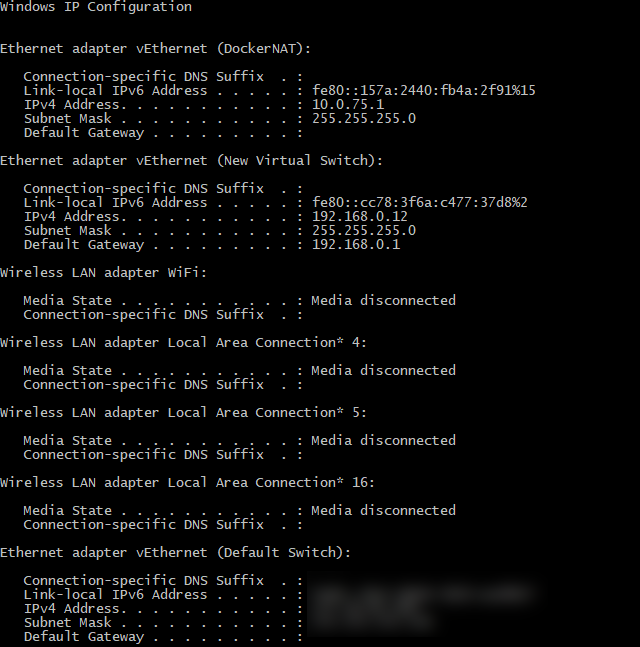
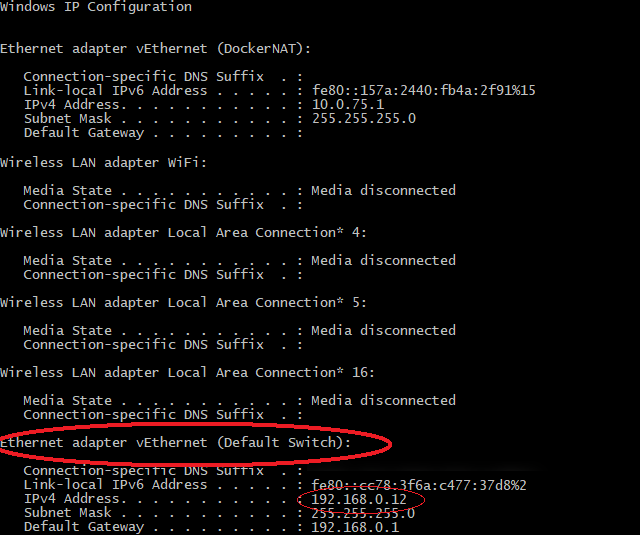
#209 Fix Xdebug documentation for Docker for Windows

Changed region(s): [[0.0, 0.0598, 0.8438, 1.0], [0.4375, 0.2991, 0.8438, 0.3888], [0.0, 0.0, 0.3125, 0.0299]]

diff --git a/docs/intermediate/configure-php-xdebug/windows/vscode.rst b/docs/intermediate/configure-php-xdebug/windows/vscode.rst
@@ -36,41 +36,14 @@ Gather Host IP address
 On Windows you will have to manually retrieve the IP address to which Xdebug should connect to
 via ``xdebug.remote_host``.
 
-When gathering the Windows host IP address you will need to distinguish between two cases depending
-on your configuration:
-
-1. DockerNat IP address (no custom configuration applied)
-2. Virtual Switch IP address (you have created a Virtual Switch to allow Internet access to your container)
-
-Only one of the options may be valid for your setup.
-
-DockerNAT IP address
-^^^^^^^^^^^^^^^^^^^^
-
-1. Open command line
-2. Enter ``ipconfig``
-3. Look for the IP4 address in ``DockerNAT`` (e.g.: ``192.168.0.12``)
-
-   .. important::
-      ``192.168.0.12`` is meant as an example and will eventually differ on your system.
-      Ensure you substitute it with the correct IP address.
-
-   .. seealso:: :ref:`howto_open_terminal_on_win`
-
-Virtual Switch IP address
-^^^^^^^^^^^^^^^^^^^^^^^^^
-
-When you have created a custom Virtual Switch for you Docker setup, you will have to gather the
-Virtual Switch IP address instead of the DockerNat IP address.
-
-Let's assume you have created the switch by the name **New Virtual Switch** as follows:
+When you have done no custom configuration in your Virtual Switch manager, Docker for Windows will
+use the ``Default Switch`` automatically.
 
    .. include:: /_includes/figures/xdebug/windows/virtual-switch-manager.rst
 
-
 1. Open command line
 2. Enter ``ipconfig``
-3. Look for the IP4 address in ``New Virtual Switch`` (e.g.: ``192.168.0.12``)
+3. Look for the IP4 address in ``Default Switch`` (e.g.: ``192.168.0.12``)
 
    .. include:: /_includes/figures/xdebug/windows/ipconfig.rst
 
@@ -137,7 +110,7 @@ You will need to configure the path mapping in ``launch.json`` (VSCode configura
                   "request": "launch",
                   "port": 9000,
                   "pathMappings": {
-                      "/shared/httpd/mytest/htdocs": "${workspaceFolder}/htdocs"
+                      "/shared/httpd/mytest/htdocs": "${workspaceRoot}/htdocs"
                   }
               }, {
                   "name": "Launch currently open script",

diff --git a/docs/intermediate/configure-php-xdebug/windows/phpstorm.rst b/docs/intermediate/configure-php-xdebug/windows/phpstorm.rst
@@ -36,41 +36,14 @@ Gather Host IP address
 On Windows you will have to manually retrieve the IP address to which Xdebug should connect to
 via ``xdebug.remote_host``.
 
-When gathering the Windows host IP address you will need to distinguish between two cases depending
-on your configuration:
-
-1. DockerNat IP address (no custom configuration applied)
-2. Virtual Switch IP address (you have created a Virtual Switch to allow Internet access to your container)
-
-Only one of the options may be valid for your setup.
-
-DockerNAT IP address
-^^^^^^^^^^^^^^^^^^^^
-
-1. Open command line
-2. Enter ``ipconfig``
-3. Look for the IP4 address in ``DockerNAT`` (e.g.: ``192.168.0.12``)
-
-   .. important::
-      ``192.168.0.12`` is meant as an example and will eventually differ on your system.
-      Ensure you substitute it with the correct IP address.
-
-   .. seealso:: :ref:`howto_open_terminal_on_win`
-
-Virtual Switch IP address
-^^^^^^^^^^^^^^^^^^^^^^^^^
-
-When you have created a custom Virtual Switch for you Docker setup, you will have to gather the
-Virtual Switch IP address instead of the DockerNat IP address.
-
-Let's assume you have created the switch by the name **New Virtual Switch** as follows:
+When you have done no custom configuration in your Virtual Switch manager, Docker for Windows will
+use the ``Default Switch`` automatically.
 
    .. include:: /_includes/figures/xdebug/windows/virtual-switch-manager.rst
 
-
 1. Open command line
 2. Enter ``ipconfig``
-3. Look for the IP4 address in ``New Virtual Switch`` (e.g.: ``192.168.0.12``)
+3. Look for the IP4 address in ``Default Switch`` (e.g.: ``192.168.0.12``)
 
    .. include:: /_includes/figures/xdebug/windows/ipconfig.rst
 

diff --git a/docs/intermediate/configure-php-xdebug/windows/sublime.rst b/docs/intermediate/configure-php-xdebug/windows/sublime.rst
@@ -36,41 +36,14 @@ Gather Host IP address
 On Windows you will have to manually retrieve the IP address to which Xdebug should connect to
 via ``xdebug.remote_host``.
 
-When gathering the Windows host IP address you will need to distinguish between two cases depending
-on your configuration:
-
-1. DockerNat IP address (no custom configuration applied)
-2. Virtual Switch IP address (you have created a Virtual Switch to allow Internet access to your container)
-
-Only one of the options may be valid for your setup.
-
-DockerNAT IP address
-^^^^^^^^^^^^^^^^^^^^
-
-1. Open command line
-2. Enter ``ipconfig``
-3. Look for the IP4 address in ``DockerNAT`` (e.g.: ``192.168.0.12``)
-
-   .. important::
-      ``192.168.0.12`` is meant as an example and will eventually differ on your system.
-      Ensure you substitute it with the correct IP address.
-
-   .. seealso:: :ref:`howto_open_terminal_on_win`
-
-Virtual Switch IP address
-^^^^^^^^^^^^^^^^^^^^^^^^^
-
-When you have created a custom Virtual Switch for you Docker setup, you will have to gather the
-Virtual Switch IP address instead of the DockerNat IP address.
-
-Let's assume you have created the switch by the name **New Virtual Switch** as follows:
+When you have done no custom configuration in your Virtual Switch manager, Docker for Windows will
+use the ``Default Switch`` automatically.
 
    .. include:: /_includes/figures/xdebug/windows/virtual-switch-manager.rst
 
-
 1. Open command line
 2. Enter ``ipconfig``
-3. Look for the IP4 address in ``New Virtual Switch`` (e.g.: ``192.168.0.12``)
+3. Look for the IP4 address in ``Default Switch`` (e.g.: ``192.168.0.12``)
 
    .. include:: /_includes/figures/xdebug/windows/ipconfig.rst
 

diff --git a/docs/intermediate/configure-php-xdebug/windows/atom.rst b/docs/intermediate/configure-php-xdebug/windows/atom.rst
@@ -36,41 +36,14 @@ Gather Host IP address
 On Windows you will have to manually retrieve the IP address to which Xdebug should connect to
 via ``xdebug.remote_host``.
 
-When gathering the Windows host IP address you will need to distinguish between two cases depending
-on your configuration:
-
-1. DockerNat IP address (no custom configuration applied)
-2. Virtual Switch IP address (you have created a Virtual Switch to allow Internet access to your container)
-
-Only one of the options may be valid for your setup.
-
-DockerNAT IP address
-^^^^^^^^^^^^^^^^^^^^
-
-1. Open command line
-2. Enter ``ipconfig``
-3. Look for the IP4 address in ``DockerNAT`` (e.g.: ``192.168.0.12``)
-
-   .. important::
-      ``192.168.0.12`` is meant as an example and will eventually differ on your system.
-      Ensure you substitute it with the correct IP address.
-
-.. seealso:: :ref:`howto_open_terminal_on_win`
-
-Virtual Switch IP address
-^^^^^^^^^^^^^^^^^^^^^^^^^
-
-When you have created a custom Virtual Switch for you Docker setup, you will have to gather the
-Virtual Switch IP address instead of the DockerNat IP address.
-
-Let's assume you have created the switch by the name **New Virtual Switch** as follows:
+When you have done no custom configuration in your Virtual Switch manager, Docker for Windows will
+use the ``Default Switch`` automatically.
 
    .. include:: /_includes/figures/xdebug/windows/virtual-switch-manager.rst
 
-
 1. Open command line
 2. Enter ``ipconfig``
-3. Look for the IP4 address in ``New Virtual Switch`` (e.g.: ``192.168.0.12``)
+3. Look for the IP4 address in ``Default Switch`` (e.g.: ``192.168.0.12``)
 
    .. include:: /_includes/figures/xdebug/windows/ipconfig.rst
 
